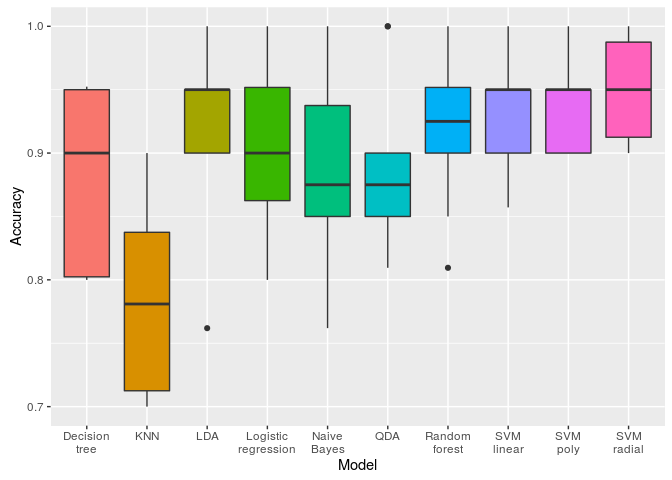
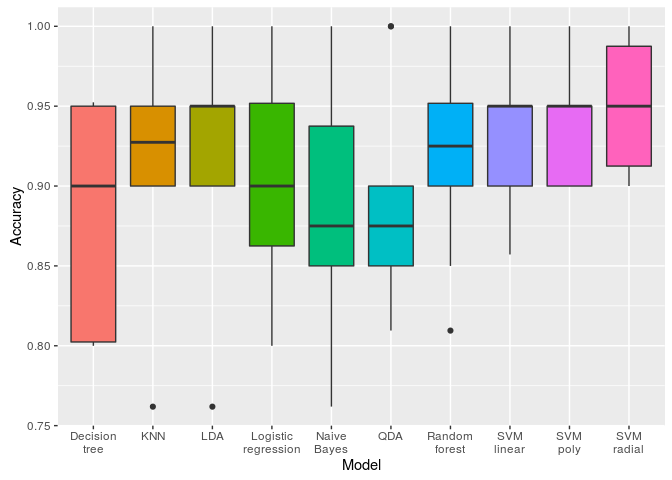
feature scaling

diff --git a/analysis/colorAnalysis.html b/analysis/colorAnalysis.html
@@ -234,19 +234,19 @@ modelStandardLumaResult &lt;-<span class="st"> </span><span class="kw">evaluate<
 ## 17             Blue 3.156888e-01
 ## 18           SqBlue 3.156888e-01
 ## 19       SqRootBlue 3.156888e-01</code></pre>
-<p>Let's now evaluate all models again, this time with the full feature set:</p>
[1 lines of base64/hex data omitted]
+<p>Let's now evaluate all models again, this time with the full feature set. We will use feature scaling as well, since some of the new features are no longer between 0 and 1.</p>
[1 lines of base64/hex data omitted]
 <pre><code>##                 Method      Mean         SD       Min      Max StatWins
-## 1           SVM radial 0.9500000 0.04082483 0.9000000 1.000000        4
-## 2           SVM linear 0.9357143 0.04604543 0.8571429 1.000000        4
-## 3             SVM poly 0.9352381 0.03387318 0.9000000 1.000000        3
-## 4                  LDA 0.9214286 0.06431021 0.7619048 1.000000        2
-## 5        Random forest 0.9211905 0.06140878 0.8095238 1.000000        1
-## 6  Logistic regression 0.9052381 0.07262490 0.8000000 1.000000        1
-## 7                  QDA 0.8909524 0.06443545 0.8095238 1.000000        1
-## 8          Naive Bayes 0.8861905 0.06844565 0.7619048 1.000000        1
-## 9        Decision tree 0.8811905 0.07062556 0.8000000 0.952381        1
-## 10                 KNN 0.7819048 0.07183482 0.7000000 0.900000        0</code></pre>
+## 1           SVM radial 0.9500000 0.04082483 0.9000000 1.000000        3
+## 2           SVM linear 0.9357143 0.04604543 0.8571429 1.000000        3
+## 3             SVM poly 0.9352381 0.03387318 0.9000000 1.000000        2
+## 4                  LDA 0.9214286 0.06431021 0.7619048 1.000000        1
+## 5        Random forest 0.9211905 0.06140878 0.8095238 1.000000        0
+## 6                  KNN 0.9166667 0.06352182 0.7619048 1.000000        0
+## 7  Logistic regression 0.9052381 0.07262490 0.8000000 1.000000        0
+## 8                  QDA 0.8909524 0.06443545 0.8095238 1.000000        0
+## 9          Naive Bayes 0.8811905 0.07305425 0.7619048 1.000000        0
+## 10       Decision tree 0.8811905 0.07062556 0.8000000 0.952381        0</code></pre>
 <h1 id="conclusions">Conclusions</h1>
 
 </body>

diff --git a/analysis/colorAnalysis.md b/analysis/colorAnalysis.md
@@ -305,21 +305,21 @@ evaluateFeatures(train)
     ## 18           SqBlue 3.156888e-01
     ## 19       SqRootBlue 3.156888e-01
 
-Let's now evaluate all models again, this time with the full feature set:
+Let's now evaluate all models again, this time with the full feature set. We will use feature scaling as well, since some of the new features are no longer between 0 and 1.
 
 ![](colorAnalysis_files/figure-markdown_github/unnamed-chunk-17-1.png)
 
     ##                 Method      Mean         SD       Min      Max StatWins
-    ## 1           SVM radial 0.9500000 0.04082483 0.9000000 1.000000        4
-    ## 2           SVM linear 0.9357143 0.04604543 0.8571429 1.000000        4
-    ## 3             SVM poly 0.9352381 0.03387318 0.9000000 1.000000        3
-    ## 4                  LDA 0.9214286 0.06431021 0.7619048 1.000000        2
-    ## 5        Random forest 0.9211905 0.06140878 0.8095238 1.000000        1
-    ## 6  Logistic regression 0.9052381 0.07262490 0.8000000 1.000000        1
-    ## 7                  QDA 0.8909524 0.06443545 0.8095238 1.000000        1
-    ## 8          Naive Bayes 0.8861905 0.06844565 0.7619048 1.000000        1
-    ## 9        Decision tree 0.8811905 0.07062556 0.8000000 0.952381        1
-    ## 10                 KNN 0.7819048 0.07183482 0.7000000 0.900000        0
+    ## 1           SVM radial 0.9500000 0.04082483 0.9000000 1.000000        3
+    ## 2           SVM linear 0.9357143 0.04604543 0.8571429 1.000000        3
+    ## 3             SVM poly 0.9352381 0.03387318 0.9000000 1.000000        2
+    ## 4                  LDA 0.9214286 0.06431021 0.7619048 1.000000        1
+    ## 5        Random forest 0.9211905 0.06140878 0.8095238 1.000000        0
+    ## 6                  KNN 0.9166667 0.06352182 0.7619048 1.000000        0
+    ## 7  Logistic regression 0.9052381 0.07262490 0.8000000 1.000000        0
+    ## 8                  QDA 0.8909524 0.06443545 0.8095238 1.000000        0
+    ## 9          Naive Bayes 0.8811905 0.07305425 0.7619048 1.000000        0
+    ## 10       Decision tree 0.8811905 0.07062556 0.8000000 0.952381        0
 
 Conclusions
 ===========
